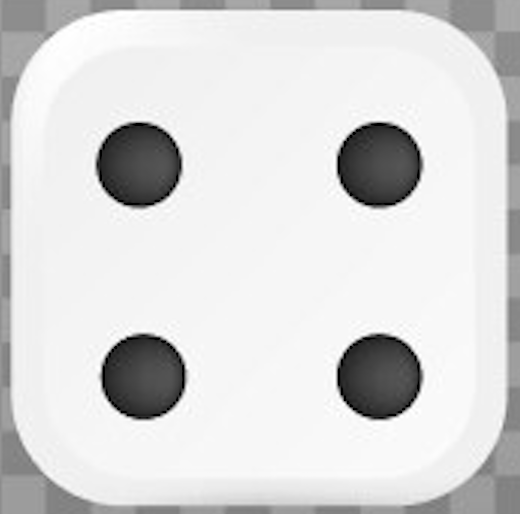
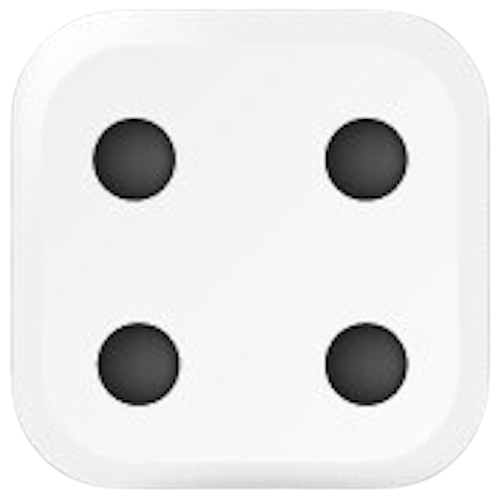
Första push med tärningsapp + glitter

Changed region(s): [[0.0, 0.0, 1.0, 1.0]]

diff --git a/App.js b/App.js
@@ -5,12 +5,17 @@ import {
   StyleSheet,
   Text,
   View,
+  Animated,
+  ImageBackground,
+  TouchableOpacity,
   Image,
-  Button
 } from 'react-native';
 
 export default function App() {
   const [diceNumber, setDiceNumber] = useState(0);
+  const [showGlitter, setShowGlitter] = useState(false);
+  const shakeAnim = useState(new Animated.Value(0))[0];
+  const glitterAnim = useState(new Animated.Value(0))[0];
 
   const diceImages = [
     require('./assets/dice1.png'),
@@ -22,39 +27,155 @@ export default function App() {
   ];
 
   const rollDice = () => {
-    const randomNumber = Math.floor(Math.random() * 6); 
-    setDiceNumber(randomNumber);
+    setShowGlitter(false); // döljer glitter först
+
+    Animated.sequence([
+      Animated.timing(shakeAnim, {
+        toValue: 1,
+        duration: 150,
+        useNativeDriver: true,
+      }),
+      Animated.timing(shakeAnim, {
+        toValue: -1,
+        duration: 150,
+        useNativeDriver: true,
+      }),
+      Animated.timing(shakeAnim, {
+        toValue: 0,
+        duration: 150,
+        useNativeDriver: true,
+      }),
+    ]).start(() => {
+      const randomNumber = Math.floor(Math.random() * 6);
+      setDiceNumber(randomNumber);
+
+      if (randomNumber === 5) {
+        // visa glitter om det blev 6 (index 5)
+        setShowGlitter(true);
+        glitterAnim.setValue(0);
+        Animated.timing(glitterAnim, {
+          toValue: 1,
+          duration: 600,
+          useNativeDriver: true,
+        }).start(() => {
+          setTimeout(() => {
+            setShowGlitter(false); // ta bort glitter efter en stund
+          }, 1000);
+        });
+      }
+    });
   };
 
-return (
-  <View style={styles.container}>
-    <Text style={styles.title}>🎲Tärningskastare🎲</Text> {/* Properly closed the <Text> tag */}
-    <Image
-      source={diceImages[diceNumber]}
-      style={styles.diceImage}
+  return ( <
+    ImageBackground source = {
+      require('./assets/background.png')
+    }
+    style = {
+      styles.container
+    }
+    resizeMode = "cover" >
+    <Text style = {
+      styles.title
+    } > 🎲Tärningskastare🎲 </Text>
+
+    <
+    Animated.Image source = {
+      diceImages[diceNumber]
+    }
+    style = {
+      [
+        styles.diceImage,
+        {
+          transform: [{
+            rotate: shakeAnim.interpolate({
+              inputRange: [-1, 1],
+              outputRange: ['-15deg', '15deg'],
+            }),
+          }, ],
+        },
+      ]
+    }
     />
-    <Button
-      title="Kasta tärningen!"
-      onPress={rollDice}
-    />
-  </View>
-);
+
+    {
+      showGlitter && ( <
+        Animated.Image source = {
+          require('./assets/glitter.png')
+        }
+        style = {
+          [
+            styles.glitter,
+            {
+              opacity: glitterAnim,
+              transform: [{
+                scale: glitterAnim.interpolate({
+                  inputRange: [0, 1],
+                  outputRange: [0.7, 1.3],
+                }),
+              }, ],
+            },
+          ]
+        }
+        />
+      )
+    }
+
+    <
+    TouchableOpacity style = {
+      styles.button
+    }
+    onPress = {
+      rollDice
+    } >
+    <
+    Text style = {
+      styles.buttonText
+    } > Kasta tärningen! </Text> 
+    </TouchableOpacity> 
+    </ImageBackground>
+  );
 }
 
 const styles = StyleSheet.create({
   container: {
     flex: 1,
-    backgroundColor: '#fafafa',
     alignItems: 'center',
     justifyContent: 'center',
   },
   title: {
     fontSize: 28,
     marginBottom: 30,
+    color: '#fff',
+    fontWeight: 'bold',
+    textShadowColor: 'black',
+    textShadowOffset: {
+      width: 2,
+      height: 2
+    },
+    textShadowRadius: 5,
   },
   diceImage: {
     width: 150,
     height: 150,
     marginBottom: 30,
+  },
+  glitter: {
+    position: 'absolute',
+    width: 250,
+    height: 250,
+    top: '35%',
+    zIndex: 10,
+  },
+  button: {
+    backgroundColor: '#307470',
+    paddingVertical: 12,
+    paddingHorizontal: 25,
+    borderRadius: 25,
+    marginTop: 10,
+  },
+  buttonText: {
+    color: '#fff',
+    fontSize: 16,
+    fontWeight: 'bold',
   },
 });
